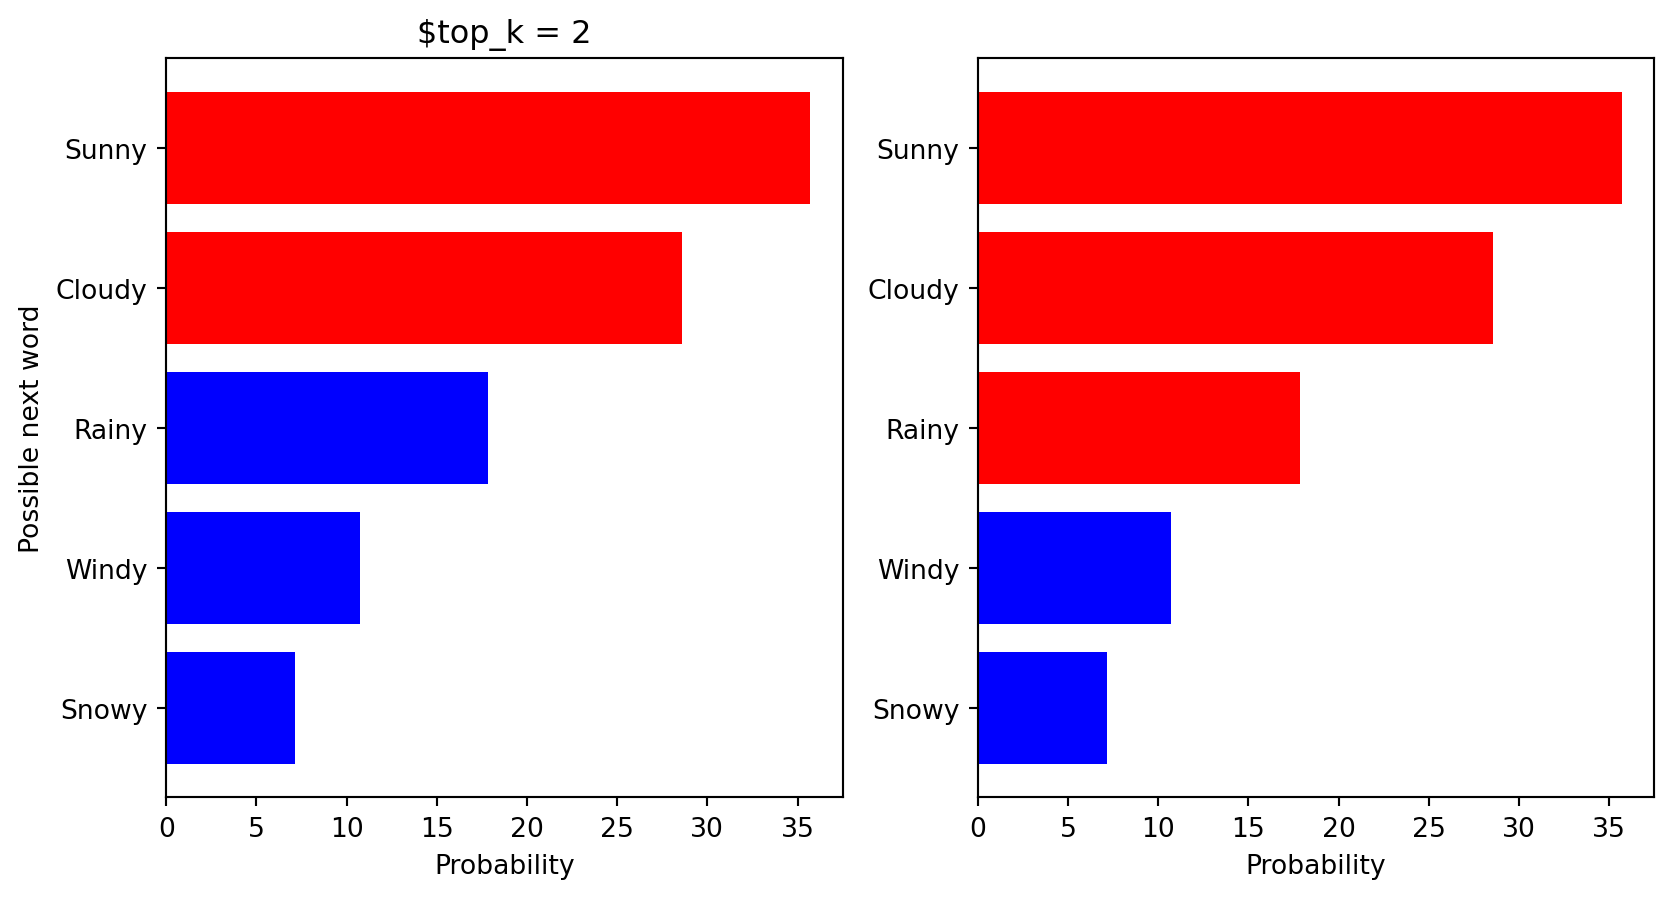
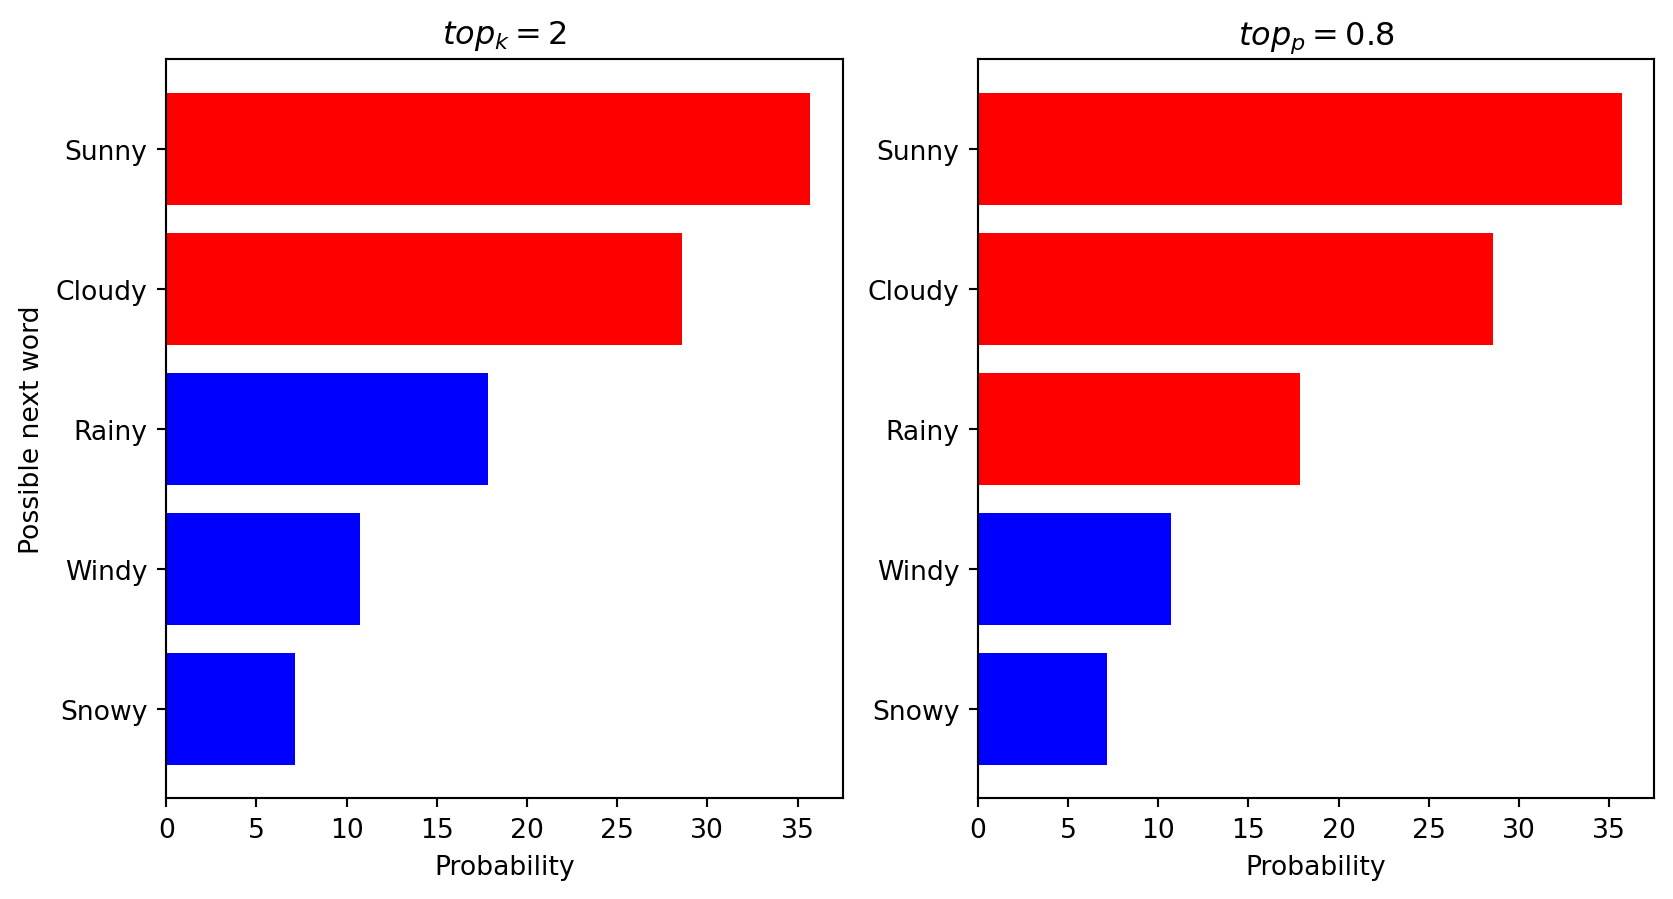
Built site for gh-pages

diff --git a/content/report.html b/content/report.html
@@ -361,16 +361,17 @@ div.csl-indent {
 <span id="cb3-13"><a href="#cb3-13" aria-hidden="true" tabindex="-1"></a></span>
 <span id="cb3-14"><a href="#cb3-14" aria-hidden="true" tabindex="-1"></a>ax1.set_xlabel(<span class="st">'Probability'</span>)</span>
 <span id="cb3-15"><a href="#cb3-15" aria-hidden="true" tabindex="-1"></a>ax1.set_ylabel(<span class="st">'Possible next word'</span>)</span>
-<span id="cb3-16"><a href="#cb3-16" aria-hidden="true" tabindex="-1"></a>ax1.set_title(<span class="st">'$top_k = 2'</span>)</span>
+<span id="cb3-16"><a href="#cb3-16" aria-hidden="true" tabindex="-1"></a>ax1.set_title(<span class="st">'$top_k = 2$'</span>)</span>
 <span id="cb3-17"><a href="#cb3-17" aria-hidden="true" tabindex="-1"></a></span>
 <span id="cb3-18"><a href="#cb3-18" aria-hidden="true" tabindex="-1"></a>ax2.barh(sorted_weather_conditions, sorted_frequency, color <span class="op">=</span> c_p[::<span class="op">-</span><span class="dv">1</span>])</span>
 <span id="cb3-19"><a href="#cb3-19" aria-hidden="true" tabindex="-1"></a></span>
 <span id="cb3-20"><a href="#cb3-20" aria-hidden="true" tabindex="-1"></a>ax2.set_xlabel(<span class="st">'Probability'</span>)</span>
-<span id="cb3-21"><a href="#cb3-21" aria-hidden="true" tabindex="-1"></a></span>
-<span id="cb3-22"><a href="#cb3-22" aria-hidden="true" tabindex="-1"></a>plt.show()</span></code><button title="Copy to Clipboard" class="code-copy-button"><i class="bi"></i></button></pre></div>
+<span id="cb3-21"><a href="#cb3-21" aria-hidden="true" tabindex="-1"></a>ax2.set_title(<span class="st">'$top_p = 0.8$'</span>)</span>
+<span id="cb3-22"><a href="#cb3-22" aria-hidden="true" tabindex="-1"></a></span>
+<span id="cb3-23"><a href="#cb3-23" aria-hidden="true" tabindex="-1"></a>plt.show()</span></code><button title="Copy to Clipboard" class="code-copy-button"><i class="bi"></i></button></pre></div>
 </details>
 <div class="cell-output cell-output-display">
-<p><img src="report_files/figure-html/cell-3-output-1.png" width="837" height="449"></p>
+<p><img src="report_files/figure-html/cell-3-output-1.png" width="837" height="450"></p>
 </div>
 </div>
 <p>So we see from the discussion above that aside from temperature, top-k and top-p values are also need to be considered when tweaking the language model.</p>
